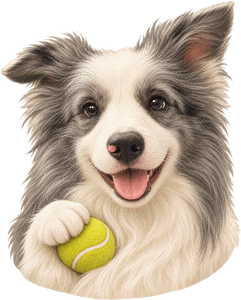
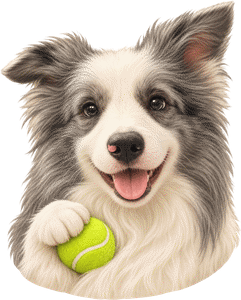
活动置顶：管理员在活动详情底部「置顶到活动列表 / 取消置顶」（云函数 pinDraw，仅管理员，留档），活动首页（全部 / 我的活动）置顶的排最前、越晚置顶越靠前，卡片带「置顶」标签，不限个数；转发封面、朋友圈封面和笑脸小狗（准入页、朋友圈介绍卡）里的网球改成网球黄绿（只动球体，毛发、缝线、透明边缘不变）；加测试；文档同步

Changed region(s): [[0.2614, 0.75, 0.4938, 0.9], [0.3485, 0.72, 0.4357, 0.78]]

diff --git a/cloudfunctions/tennis/index.js b/cloudfunctions/tennis/index.js
@@ -1124,6 +1124,18 @@ async function removeDraw({ drawId, reason }, uid) {
   return { deleted: true };
 }
 
+// 置顶（2026-11-24 用户要求）：管理员把活动置顶到活动列表最前面（draws.pinnedAt = 置顶时间，越晚置顶越靠前），
+// 可以取消；不限个数；留档。只改这一个字段，不影响报名、对阵和比分
+async function pinDraw({ drawId, pinned }, uid) {
+  if (!isAdmin(uid)) deny('只有管理员可以置顶活动');
+  const d = await loadDraw(drawId);
+  const on = pinned === true;
+  if (on === !!d.pinnedAt) return { pinned: on, same: true };
+  await db.collection('draws').doc(drawId).update({ data: { pinnedAt: on ? Date.now() : _.remove() } });
+  await logAction({ type: 'pinDraw', drawId, by: uid, pinned: on });
+  return { pinned: on };
+}
+
 // 撤回删除（2026-11-24 用户要求：管理员误删可以撤回）：删除的人本人或管理员可以撤回，不用填原因、留档。
 // 活动恢复原样（报名、对阵、比分本来就没动）；删除时作废的申请（handleNote「活动已删除」）恢复成待处理。已经恢复过的再撤回什么都不改
 async function restoreDraw({ drawId }, uid) {
@@ -1718,7 +1730,7 @@ async function setMemberGender({ uid: target, gender }, uid) {
   return { ok: true };
 }
 
-const ADMIN_ONLY = { createDraw: 1, generateDraw: 1, updateDrawInfo: 1, updateDrawSettings: 1, resetScores: 1, setMemberGender: 1, adminClearPhoto: 1, adminFixScore: 1, auditSignups: 1, listMembers: 1, reviewMember: 1, removeMember: 1, importMembers: 1, createInvite: 1, revokeInvite: 1, cupSave: 1, cupRemove: 1, cupFromDraw: 1, updateDrawCupKind: 1 };
+const ADMIN_ONLY = { createDraw: 1, generateDraw: 1, updateDrawInfo: 1, updateDrawSettings: 1, resetScores: 1, setMemberGender: 1, adminClearPhoto: 1, adminFixScore: 1, auditSignups: 1, listMembers: 1, reviewMember: 1, removeMember: 1, importMembers: 1, createInvite: 1, revokeInvite: 1, cupSave: 1, cupRemove: 1, cupFromDraw: 1, updateDrawCupKind: 1, pinDraw: 1 };
 
 async function memberStatus(_d, uid) {
   const m = await memberOf(uid);
@@ -2341,7 +2353,7 @@ async function cupList(_d, uid) {
   return { list: admin ? out : await cupMask(out, uid), admin };
 }
 
-const ACTIONS = { data: dataGateway, cupSave, cupRemove, cupList, cupFromDraw, updateDrawCupKind, memberStatus, applyMember, acceptInvite, createInvite, revokeInvite, listMembers, reviewMember, removeMember, importMembers, setMemberGender, ping, resolveFixture, editMatchScore, adminFixScore, requestScoreChange, respondScoreChange, ruleScoreChange, cancelScoreChange, requestWithdraw, handleWithdraw, drawRequests, recordEventMatch, matchState, signUp, cancelSignup, saveProfile, setShown, createDraw, generateDraw, updateDrawInfo, updateDrawSettings, removeDraw, restoreDraw, auditSignups, dataset, drawDetail, mySignups, setFixtureSlot, resetScores, confirmResult, revokeMatch, setPhoto, myPhoto, photoUrls, adminClearPhoto, growthList, growthSave, growthRemove, growthClear, racketList, racketSave, racketRemove, racketLogSave, racketLogRemove, racketClear };
+const ACTIONS = { data: dataGateway, cupSave, cupRemove, cupList, cupFromDraw, updateDrawCupKind, memberStatus, applyMember, acceptInvite, createInvite, revokeInvite, listMembers, reviewMember, removeMember, importMembers, setMemberGender, ping, resolveFixture, editMatchScore, adminFixScore, requestScoreChange, respondScoreChange, ruleScoreChange, cancelScoreChange, requestWithdraw, handleWithdraw, drawRequests, recordEventMatch, matchState, signUp, cancelSignup, saveProfile, setShown, createDraw, generateDraw, updateDrawInfo, updateDrawSettings, removeDraw, restoreDraw, pinDraw, auditSignups, dataset, drawDetail, mySignups, setFixtureSlot, resetScores, confirmResult, revokeMatch, setPhoto, myPhoto, photoUrls, adminClearPhoto, growthList, growthSave, growthRemove, growthClear, racketList, racketSave, racketRemove, racketLogSave, racketLogRemove, racketClear };
 
 exports.main = async (event) => {
   // 微信消息推送（图片检测结果）：只认平台标记的来源 SOURCE = wx_callback（客户端改不了）；

diff --git a/utils/db.js b/utils/db.js
@@ -325,6 +325,8 @@ function recentRemoved() {
   return lastRemoved;
 }
 function dismissRemoved() { lastRemoved = null; }
+// 置顶 / 取消置顶（管理员）
+async function pinDraw(id, pinned) { await cloudCall('pinDraw', { drawId: id, pinned: !!pinned }); }
 // 撤回删除：成功后不再从列表里去掉它，重新读取就能看到
 async function restoreDraw(id) {
   await cloudCall('restoreDraw', { drawId: id });
@@ -372,6 +374,6 @@ module.exports = {
   fetchMatches, cachedMatches, fetchMatchesAll, cachedMatchesAll, matchesShared, matchesAllShared, playersShared, profilesOf, drawsShared, fetchVerified, getVerified, addMatch, removeMatch, getMatch,
   fetchPlayersFull, cachedPlayersFull, cachedProfiles, fetchPlayers, cachedPlayers, addPlayer,
   getMyProfile, cachedProfile, saveMyProfile, setShown,
-  fetchDraws, cachedDraws, getDraw, fetchDrawDetail, forget, addDraw, generateDraw, updateDrawInfo, updateDrawSettings, removeDraw, restoreDraw, recentRemoved, dismissRemoved, withoutRemoved, setFixtureSlot,
+  fetchDraws, cachedDraws, getDraw, fetchDrawDetail, forget, addDraw, generateDraw, updateDrawInfo, updateDrawSettings, removeDraw, restoreDraw, pinDraw, recentRemoved, dismissRemoved, withoutRemoved, setFixtureSlot,
   fetchSignups, fetchMySignups, mySignup, signUp, cancelSignup,
 };

diff --git a/pages/draw-view/draw-view.js b/pages/draw-view/draw-view.js
@@ -512,6 +512,22 @@ Page({
     });
   },
 
+  // 置顶 / 取消置顶（管理员，2026-11-24 用户要求）：活动列表里排在最前面
+  async togglePin() {
+    if (!this.data.canEdit || this.data.pinBusy) return;
+    const pinned = !this.data.draw.pinnedAt;
+    this.setData({ pinBusy: true });
+    try {
+      await db.pinDraw(this.id, pinned);
+      this.d = Object.assign({}, this.d, { pinnedAt: pinned ? Date.now() : 0 });
+      this.setData({ 'draw.pinnedAt': pinned ? Date.now() : 0 });
+      wx.showToast({ title: pinned ? '已置顶' : '已取消置顶', icon: 'none' });
+    } catch (e) {
+      wx.showModal({ title: pinned ? '置顶失败' : '取消置顶失败', content: e.message || '请稍后再试', showCancel: false });
+    }
+    this.setData({ pinBusy: false });
+  },
+
   // 管理员删除别人发起的活动：必须选原因（留档）
   async adminRemove() {
     const go = await new Promise((done) => wx.showModal({ title: '删除这个活动（管理员）', content: '已录比分保留在战绩里。下一步选择删除原因，会留档。', confirmText: '继续', confirmColor: '#e5484d', success: (x) => done(x.confirm), fail: () => done(false) }));

diff --git a/pages/draw/draw.js b/pages/draw/draw.js
@@ -41,6 +41,7 @@ function toView(d, matches, myId, signed) {
   return {
     _id: d._id, signing, mine: !!role, roleTags,
     cupTag: C.drawCupText(d), // LULU 积分活动：报名阶段就显示「LULU 积分 · 周赛」
+    pinnedAt: Number(d.pinnedAt) || 0, // 置顶（管理员设置）：排在最前面，越晚置顶越靠前
     title: d.title,
     meta: meta.map((x) => x.replace(/ /g, '\u00a0')).join(' · '), // 每一项内部用不换行空格：只在项与项之间换行，「2 个」不会拆开
     date: d.date || '',
@@ -128,6 +129,8 @@ Page({
     const byDraw = {};
     (this.matches || []).forEach((m) => { if (m.drawId) (byDraw[m.drawId] = byDraw[m.drawId] || []).push(m); });
     const list = (this.draws || []).map((d) => toView(d, byDraw[d._id] || [], this.myId, signed));
+    // 置顶的排最前（越晚置顶越靠前），其余保持原来的顺序（按创建时间，新的在前）
+    if (list.some((x) => x.pinnedAt)) list.sort((a, b) => b.pinnedAt - a.pinnedAt);
     this.list = list;
     // 我的下一场：录分、改时间场地之后活动 / 战绩会重新读到新数组，这里跟着重算
     this.today = NX.todayOf();

diff --git a/utils/cloud.js b/utils/cloud.js
@@ -35,6 +35,7 @@ const WRITES = {
   updateDrawSettings: ['draws', 'requests'],
   updateDrawCupKind: ['draws', 'requests'],
   removeDraw: ['draws', 'signups', 'requests'], // 软删除活动、作废申请；比分照常保留在战绩里
+  pinDraw: ['draws', 'requests'], // 置顶 / 取消置顶：只改活动的 pinnedAt
   restoreDraw: ['draws', 'signups', 'requests'], // 撤回删除：活动和被作废的申请恢复
 };
 function invalidateAfter(action, data) {

diff --git a/CLAUDE.md b/CLAUDE.md
@@ -13,7 +13,7 @@
   - 需要被前端读写的集合，要加进网关的白名单（`GW_READ` / `GW_WRITE` / `GW_OPS`）。
   - 网关的写权限只剩两项：`matches` 只能新增日常比赛；`players` 只能新增「只有名字」的球员。报名（`signUp`/`cancelSignup`）、本人资料（`saveProfile`）、活动（`createDraw`/`generateDraw`/`updateDrawInfo`/`removeDraw`）、撤销（`revokeMatch`）都走专门的云函数操作，由服务端校验字段。不要再把这些集合的写权限开放给网关。
   - 活动删除是软删除（`deleted: true`）：网关不返回已删除的活动，`loadDraw`/`loadFixture` 会拒绝操作，已录比分保留在战绩里。**撤回删除**（2026-11-24 用户要求，防管理员误删）：删除后回到活动首页，顶部 5 分钟内显示「已删除「名称」· 撤回」（`db.recentRemoved`，只在内存里）；云端 `restoreDraw` 只允许删除的人本人或管理员，不用填原因、留档 `type: 'restoreDraw'`，去掉删除标记，删除时作废的申请（`handleNote: '活动已删除'`）恢复成待处理；已恢复的再撤回不改动。
-- **管理员的活动权限**：只有管理员可以编辑活动信息（含旧活动；普通发起人也不可编辑）；管理员可以编辑任何活动的信息（手动名称、时间、场地编号和地图坐标）和删除活动（必须填原因），都会留档；另外可以用 `adminFixScore` 直接更正任何一场的正常比分、用 `revokeMatch` 撤销任何一场（见下面两条）。生成签表、判弃权 / 退赛、裁定改分申请、处理退赛、单场安排（`setFixtureSlot`）仍然只有发起人能做。不要再扩大管理员的活动权限，也不要让管理员绕过 `manageDraw`。
+- **管理员的活动权限**：只有管理员可以编辑活动信息（含旧活动；普通发起人也不可编辑）；管理员可以编辑任何活动的信息（手动名称、时间、场地编号和地图坐标）和删除活动（必须填原因），都会留档；另外可以用 `adminFixScore` 直接更正任何一场的正常比分、用 `revokeMatch` 撤销任何一场（见下面两条）。**置顶**（2026-11-24 用户要求）：管理员在活动详情底部「置顶到活动列表 / 取消置顶」（`pinDraw`，`ADMIN_ONLY`，留档 `type: 'pinDraw'`），只写 `draws.pinnedAt`（置顶时间），不限个数；活动列表（全部 / 我的活动）置顶的排最前、越晚置顶越靠前，卡片带「置顶」标签。生成签表、判弃权 / 退赛、裁定改分申请、处理退赛、单场安排（`setFixtureSlot`）仍然只有发起人能做。不要再扩大管理员的活动权限，也不要让管理员绕过 `manageDraw`。
 - **管理员更正比分**：管理员可以用 `adminFixScore` 直接更正日常比赛和活动比赛的正常比分，不用填原因，但必须留档（`type: 'adminScore'`，记操作人和改前改后的比分）。更正后比分锁定（算双方确认）：日常比赛在 `verified` 里写 `adminSig`，活动比赛写 `rulingSig`，`confirmState` 只认这两个标记（不认小程序端能写的字段）。活动比赛会推翻后续已录分场次时，必须先返回影响清单、带 `confirmImpact` 才执行。
 - **成员资格**：云函数的新操作默认要求正式成员，不要随意加进 `PUBLIC`。管理员只来自环境变量 `ADMIN_OPENIDS`，不要做「第一个注册的人自动成为管理员」之类的逻辑。
 - **球员照片（2026-11-16 用户咨询后确认可以做）**：每位成员可以上传自己的照片，展示给其他球友。只在资料页上传（`utils/photo.js`：相册 / 拍照 → `wx.cropImage` 1:1 → 隐藏 2d 画布缩放成 1080×1080 JPG → `avatars/<用户 ID>/` → 云函数 `setPhoto`）。`setPhoto` 只认本人目录、当前环境的 `.jpg`；先由服务端复制到客户端不可读写的 `player-photos/<用户 ID>/`，对该不可变快照提交 `mediaCheckAsync`（场景 1），检测记录在 `avatar_checks`（仅管理端，`_id` = trace_id）；消息推送 `wxa_media_check` 回到本云函数（`exports.main` 开头，只认 `SOURCE` 含 `wx_callback`、且不含 `wx_client` / `wx_devtools` / `wx_localdebug` 的调用；真推送也带 `userInfo`，不能按 `userInfo` 拒绝，2026-11-18 因此丢过全部检测结果），只有明确 `pass` 才写 `players.photo`，risky / review / 出错都不公开并删文件。推送比检测记录先到时，结果先存为 `avatar_checks` 的 `early-<trace_id>`，`setPhoto` 写完记录后接着处理（不要改回「等几秒找不到就回 success」，那样结果会丢）；检测中超过 1 小时（`PHOTO_CHECK_MAX_MS`）没结果，`myPhoto` 判为出错（`timedOut: true`）并删检测副本，晚到的结果不再生效。新照片通过后才替换并删旧文件；检测中又换一张，旧的作废；提交、回调和本人／管理员清除通过事务核对请求版本，旧回调不能恢复照片。`photoRequest` / `photoTrace` / `photoAttempts` 是内部字段，不得从资料接口或网关下发。链接只经 `photoUrls` 发放（只给某人当前的 `players.photo`，30 分钟）。**缩略图和本机缓存（2026-11-20 用户要求）**：`setPhoto` 从检测用的那份快照缩出 320×320 缩略图（`player-photos/<用户 ID>/<快照名>-s.jpg`，纯 JS 的 `cloudfunctions/tennis/vendor/jpeg-js`，不要改成 npm 依赖，测试要不装依赖就能跑），跟着同一次检测结果公开 / 删除、不单独检测；通过后写 `players.photoThumb`（内部字段，不下发，换照片 / 清除 / 没通过时连同缩略图删）。`photoUrls` 默认发缩略图链接（键仍是 `players.photo`，带 `thumbs` 标记），`full: true` 发原图（只在点开大图时用，`P.full`）；以前没有缩略图的照片在 `photoUrls` 里补做。小程序端只把缩略图存到本机（`utils/photo-cache.js`，`USER_DATA_PATH/pl/`，按 fileID 存，最多 200 张 / 20MB），**要等这次启动拿到云端的最新球员资料（`setPlayers` 不带 `cached`）后才用本机文件**，并按最新资料删掉不再公开的照片（关掉公开展示、换照片、管理员移除）；退出成员身份时全部删掉。不要缓存临时链接，也不要在拿到最新资料前用本机文件；检测中的预览只经 `myPhoto` 给本人。**本人马上看到**（用户要求）：上传后本人在所有页面立刻看到新照片（`utils/photo.js` 的 `setMine` / `ownSrc`，用本机文件或 `myPhoto` 的本人专用链接，上传后 1 / 3 / 10 分钟各查一次结果），其他球友仍然要等检测通过；不要改成「先公开后检测」。管理员可以用 `adminClearPhoto` 移除照片（留档 `type: 'adminPhoto'`）。显示一律用全局组件 `<pl-av uid name>`（没有照片显示首字圆），不要在页面里直接写 `<image src="{{...}}">`（`tests/review-surface.test.js` 检查，照片上传入口只允许资料页）。`players.avatar` 是以前没检测过的旧照片，不显示。

diff --git a/docs/项目进度.md b/docs/项目进度.md
@@ -12,6 +12,8 @@
 
 > **2026-11-23 我的 LULU 积分（未发布，只在本地验证）**：「我的」页新增积分卡片：今年的单打积分、双打积分（遭遇赛有分时另显示），以及最近一站的日期、名次和得分；今年没有积分时显示「今年暂无积分」。点进「我的 LULU 积分」可以切换年度和单打 / 双打 / 遭遇赛，按日期看每一站的名次、基础分、奖励分和合计（双打写搭档，搭档没开公开展示显示「球友」）。没开公开展示的人也能看到自己的积分（只有自己看得到）。数据和排行页积分榜是同一份（只算已发布、没撤下的站），管理员更正或撤下后，下拉刷新就是新结果。只改小程序端，不用部署云函数（`utils/cup.js` 是共享文件，已同步，部署时一起带上即可）。
 
+> **2026-11-24 活动置顶（未发布，只在本地验证）**：管理员在活动详情底部点「置顶到活动列表」，这个活动在活动首页（全部活动、我的活动）排到最前面，卡片上有「置顶」标签；可以置顶多个，越晚置顶的越靠前；点「取消置顶」恢复原来的位置。只改活动的置顶时间（`draws.pinnedAt`），不影响报名、对阵和比分；每次置顶 / 取消都留档（`requests` `type: 'pinDraw'`）。新增云函数操作 `pinDraw`，上线要重新部署云函数 `tennis`。
+
 > **2026-11-24 删除活动可以撤回（未发布，只在本地验证）**：删除活动后回到活动首页，顶部 5 分钟内显示「已删除「活动名称」· 撤回」，点撤回活动恢复原样（报名、对阵、比分本来就没动），删除时作废的改分 / 退赛申请恢复成待处理；可以点 ✕ 关掉提示。删除的人本人或管理员可以撤回，不用填原因，留档（`requests` `type: 'restoreDraw'`）。新增云函数操作 `restoreDraw`，上线要重新部署云函数 `tennis`。
 
 > **2026-11-23 删除已下线功能的旧集合**：`reviews`（对手评价）、`bios`（个人简介）、`follows`（关注）、`event_contacts`（活动联系人）、`event_photos`（活动相册）功能早已删除，用户要求整个删掉。云函数先改成不再访问它们：删除活动只做软删除和作废申请（不再清联系人和相册），清空战绩不再删评价。**顺序**：先重新部署 `tennis`，再到控制台删这 5 个集合和存储里的 `event-photos/` 目录，最后把存储安全规则改成只放行 `avatars/`（见下面「云存储安全规则」）。顺序反了，部署前删除活动会报错。
